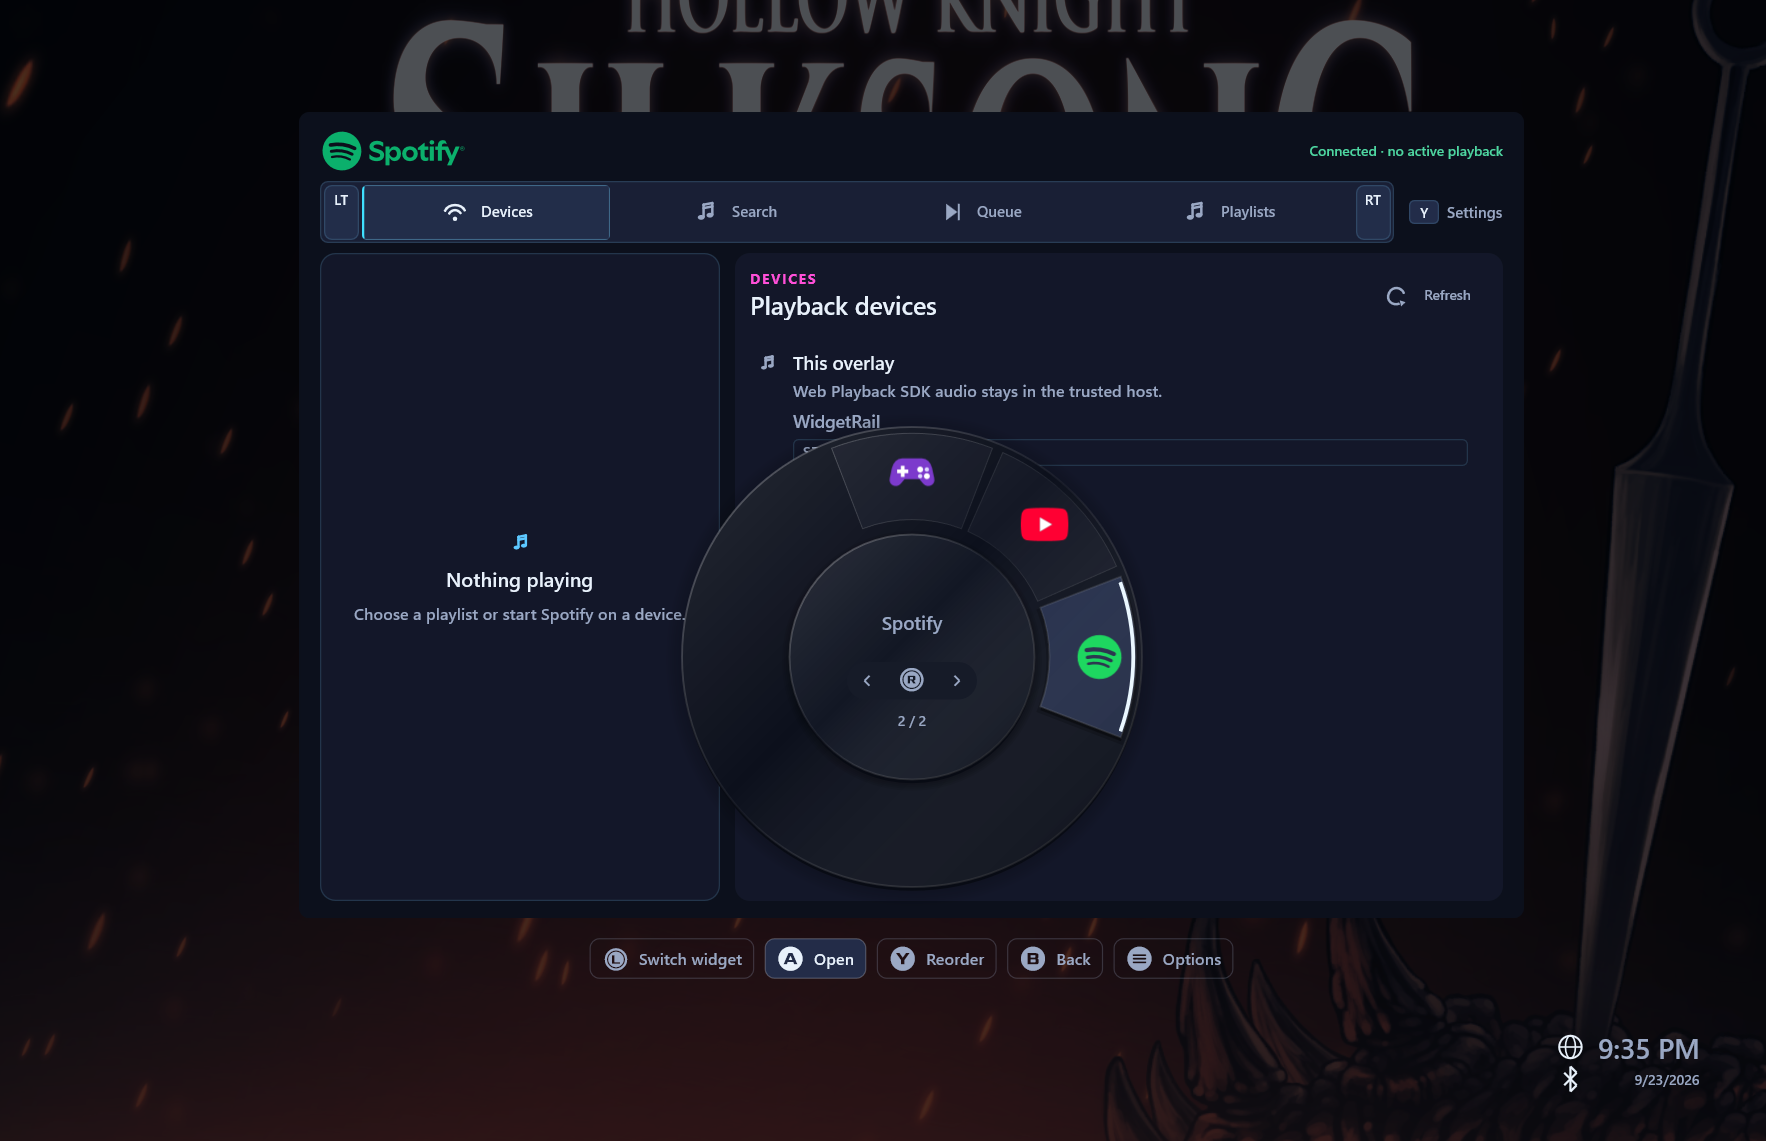
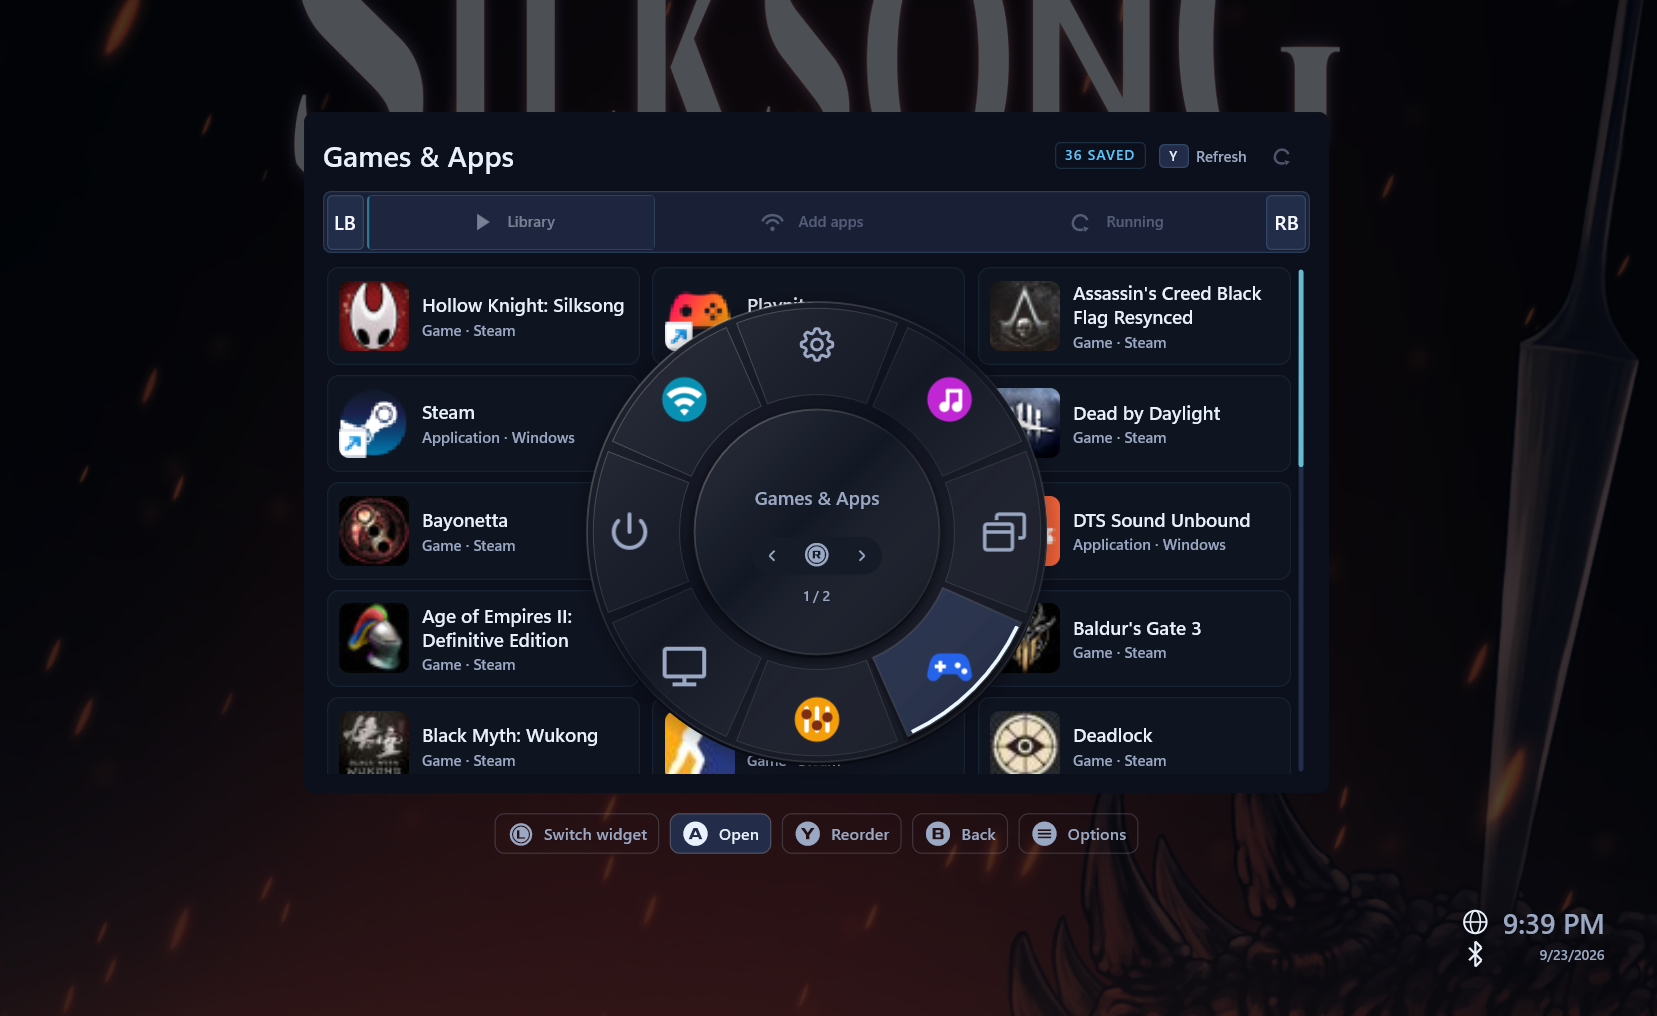
Update radial overview screenshot

diff --git a/README.md b/README.md
@@ -10,7 +10,7 @@ video or compact widget views visible while the main overlay is closed.
 
 [Download](https://github.com/sandwi-dev/WidgetRail/releases) · [Installation](docs/users/getting-started.md) · [Documentation](docs/README.md) · [Build a widget](docs/developers/widget-quickstart.md)
 
-![WidgetRail's radial switcher over the Spotify widget](docs/images/overview-radial.png)
+![WidgetRail's radial switcher over the Games & Apps widget](docs/images/overview-radial.png)
 
 ![Games & Apps with WidgetRail's horizontal rail](docs/images/overview-rail.png)
 
